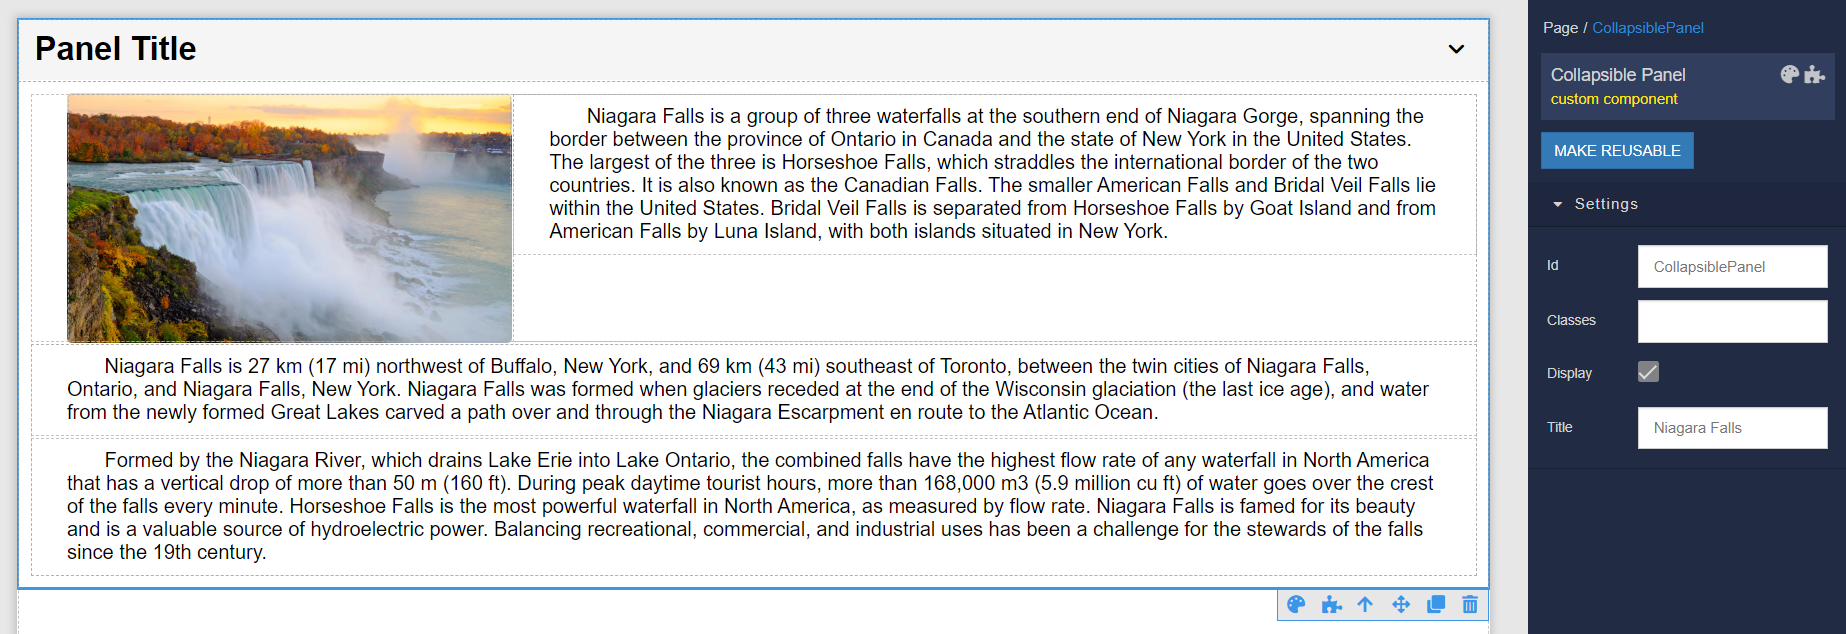
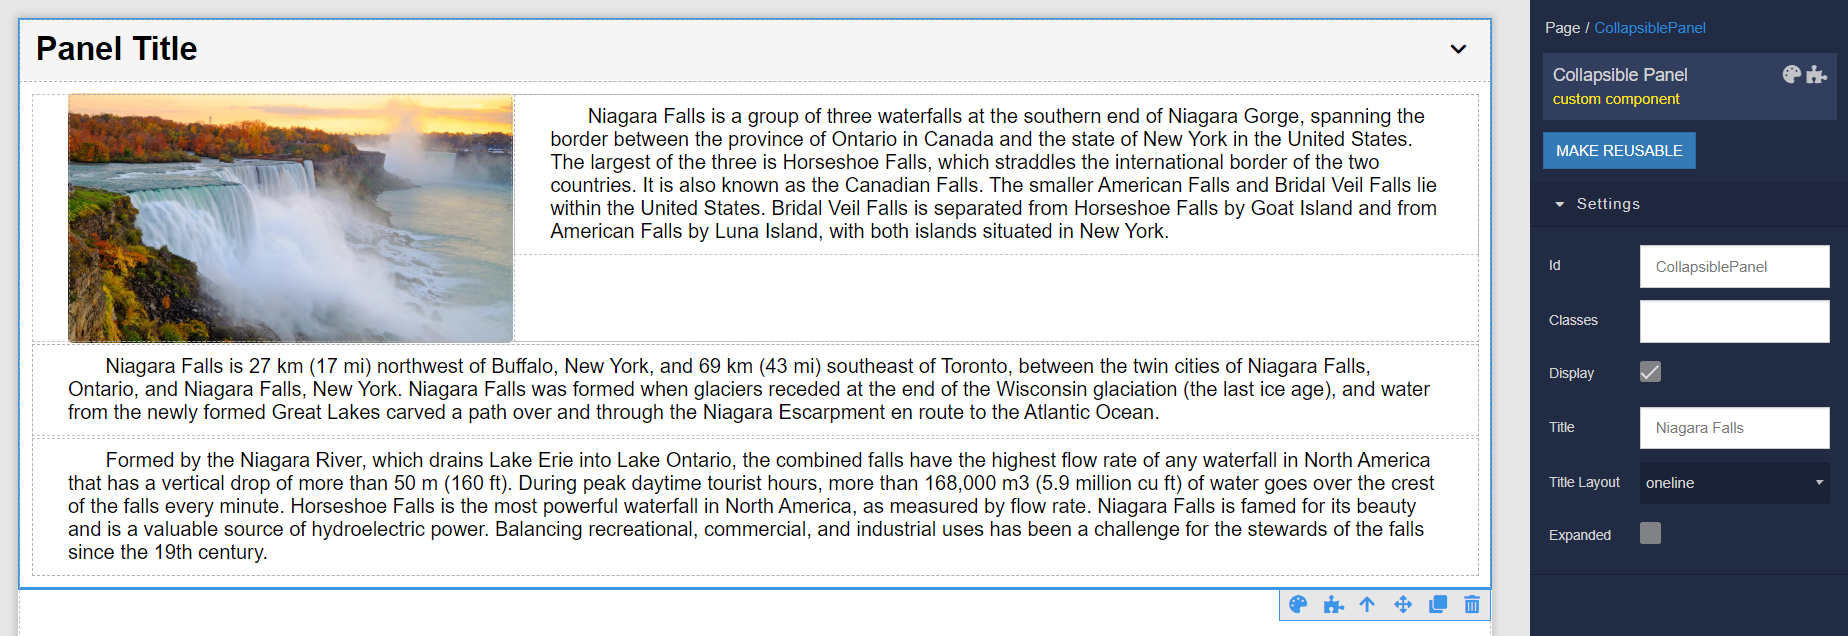
added two new params, updated code, styles, example, readme

diff --git a/components/bl-collapsiblePanel-component/src/index.js b/components/bl-collapsiblePanel-component/src/index.js
@@ -2,11 +2,13 @@ import { useCallback, useState } from 'react';
 
 const { cn } = BackendlessUI.CSSUtils;
 
+const ONELINE = 'oneline';
+
 export default function CollapsiblePanelComponent({ component, elRef, eventHandlers, pods }) {
-  const { classList, style, display, title } = component;
+  const { classList, style, display, title, titleLayout, isExpanded } = component;
   const { onExpand, onCollapse } = eventHandlers;
 
-  const [expanded, setExpanded] = useState(false);
+  const [expanded, setExpanded] = useState(isExpanded);
   const [withAnimation, setWithAnimation] = useState(false);
 
   const className = cn('bl-customComponent-collapsiblePanel', ...classList, {
@@ -15,16 +17,20 @@ export default function CollapsiblePanelComponent({ component, elRef, eventHandl
   });
 
   const showContent = useCallback(() => {
-    setExpanded(true);
-    setWithAnimation(true);
-    onExpand();
-  }, []);
+    if (!expanded) {
+      setExpanded(true);
+      setWithAnimation(true);
+      onExpand();
+    }
+  }, [expanded]);
 
   const hideContent = useCallback(() => {
-    setExpanded(false);
-    setWithAnimation(true);
-    onCollapse();
-  }, []);
+    if (expanded) {
+      setExpanded(false);
+      setWithAnimation(true);
+      onCollapse();
+    }
+  }, [expanded]);
 
   const togglePanel = useCallback(() => {
       expanded ? hideContent() : showContent();
@@ -39,7 +45,7 @@ export default function CollapsiblePanelComponent({ component, elRef, eventHandl
 
   return (
     <div ref={ elRef } className={ className } style={ style }>
-      <PanelTitle title={ title } expanded={ expanded } onClick={ togglePanel } />
+      <PanelTitle title={ title } expanded={ expanded } onClick={ togglePanel } layout={ titleLayout } />
 
       <div className={ cn('panel-content', { 'close': !expanded }) }>
         { pods['panelContent'].render() }
@@ -48,10 +54,10 @@ export default function CollapsiblePanelComponent({ component, elRef, eventHandl
   );
 }
 
-function PanelTitle({ title, expanded, onClick }) {
+function PanelTitle({ title, layout, expanded, onClick }) {
   return (
     <div className="panel-title" aria-expanded={ expanded } role="button" onClick={ onClick }>
-      <span className="panel-title-text">{ title }</span>
+      <span className={ cn('panel-title-text', layout === ONELINE ? 'oneline' : 'multiline' ) }>{ title }</span>
 
       <svg
         className="collapse-icon"

diff --git a/components/bl-collapsiblePanel-component/styles/index.less b/components/bl-collapsiblePanel-component/styles/index.less
@@ -24,12 +24,17 @@
 .bl-customComponent-collapsiblePanel {
   width: @bl-customComponent-collapsiblePanel-width;
 
-  &.panel-expanded.with-animation {
+  &.panel-expanded {
     .collapse-icon {
       transform: @bl-customComponent-collapsiblePanel-title-icon-transform;
     }
     .panel-content {
       max-height: @bl-customComponent-collapsiblePanel-content-open-maxHeight;
+    }
+  }
+
+  &.panel-expanded.with-animation {
+    .panel-content {
       animation-name: @bl-customComponent-collapsiblePanel-content-animationName-open;
       animation-duration: (@bl-customComponent-collapsiblePanel-content-animationDuration * 2);
     }
@@ -57,8 +62,24 @@
   }
 
   .panel-title-text {
+    width: calc(100% - @bl-customComponent-collapsiblePanel-title-icon-width);
     font-size: @bl-customComponent-collapsiblePanel-title-fontSize;
     color: @bl-customComponent-collapsiblePanel-themeTextColor;
+
+    &::selection {
+      background: none;
+    }
+
+    &.oneline {
+      white-space: nowrap;
+      overflow: hidden;
+      text-overflow: ellipsis;
+    }
+
+    &.multiline {
+      white-space: normal;
+      word-wrap: break-word;
+    }
   }
 
   .collapse-icon {
@@ -67,7 +88,6 @@
     font-size: @bl-customComponent-collapsiblePanel-title-fontSize;
     fill: @bl-customComponent-collapsiblePanel-title-icon-color;
     transition: @bl-customComponent-collapsiblePanel-title-icon-transition;
-    user-select: none;
   }
 
   .panel-content {

diff --git a/components/bl-collapsiblePanel-component/README.md b/components/bl-collapsiblePanel-component/README.md
@@ -8,9 +8,11 @@ Collapsible Panel is the component that can be used in Backendless [UI-Builder](
 
 ## Properties
 
-| Property                        | Type   | Default value | Logic              | Data Binding | UI Setting | Description                                           |
-|---------------------------------|--------|---------------|--------------------|--------------|------------|-------------------------------------------------------|
-| Title <br> `title`              | *Text* | `Panel Title` | Title Logic        | YES          | YES        | The logic to determine the title of the panel.        |
+| Property                        | Type                                   | Default value | Logic       | Data Binding | UI Setting | Description                                              |
+|---------------------------------|----------------------------------------|---------------|-------------|--------------|------------|----------------------------------------------------------|
+| Title <br> `title`              | *Text*                                 | `Panel Title` | Title Logic | YES          | YES        | The logic to determine the title of the panel.           |
+| Title Layout <br> `titleLayout` | *Select* <br> [`oneline`, `multiline`] | `oneline`     |             | NO           | YES        | Controls the title layout.                               |
+| Expanded <br> `isExpanded`      | *Checkbox*                             | `false`       |             | NO           | YES        | Controls whether the component is expanded or collapsed. |
 
 ## Events
 
